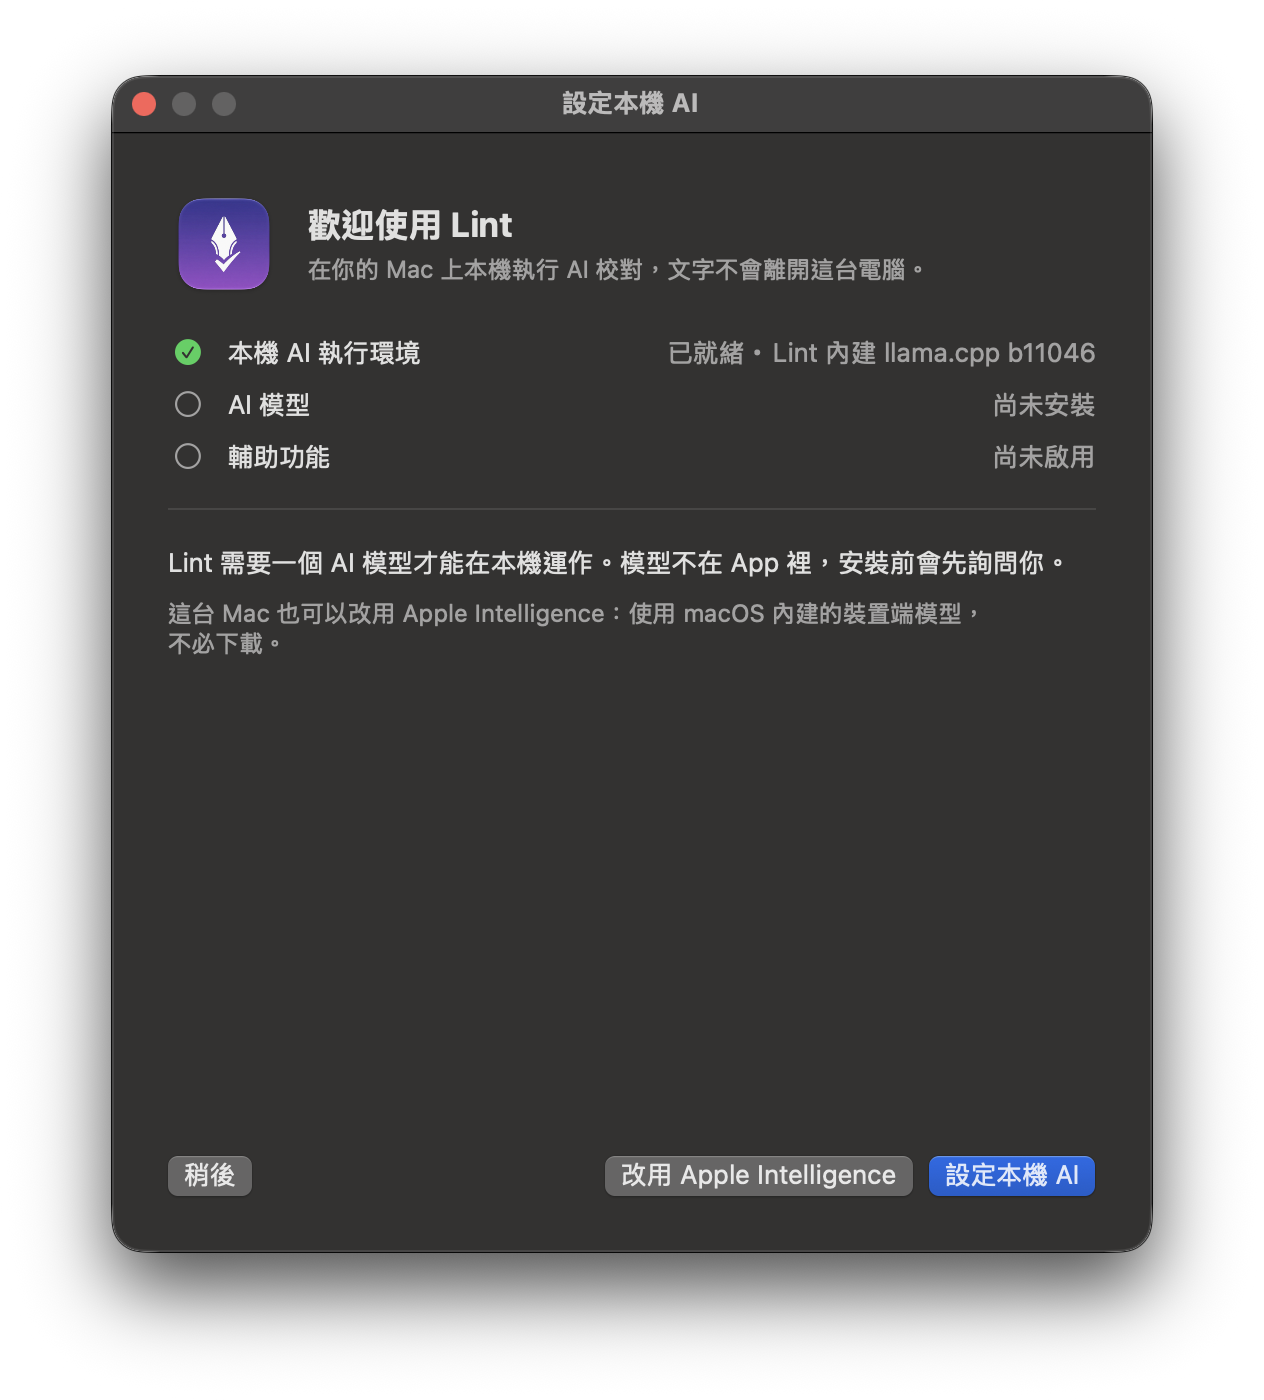
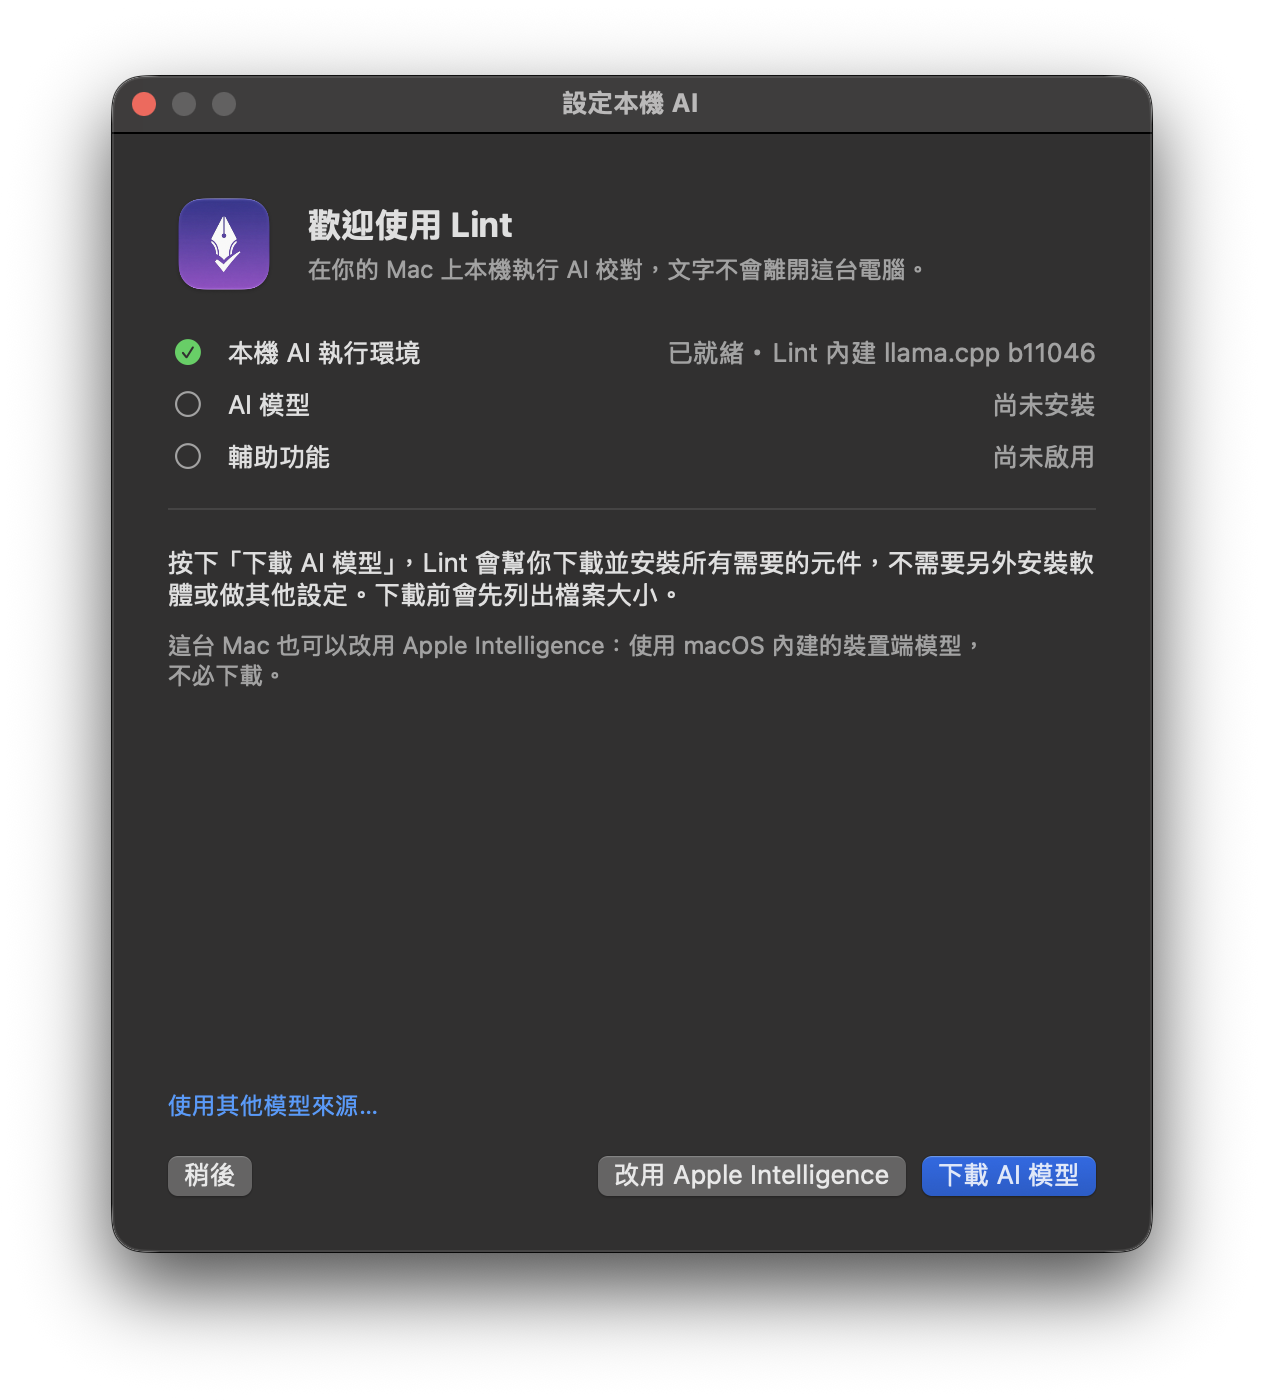
Bring the guide up to 0.14.0.
The download step names the 0.14.0 files. The DMG step says to drag Lint
where the new arrow points. The setup step names the "Download AI Model"
button and the "Use Another Model Source…" link, and says that Settings and
the hotkeys lead back to the window until Lint is ready, as the README now
does too. New screenshots of the DMG window, the setup window (en, zh) and
the v0.14.0 release.

Changed region(s): [[0.1234, 0.3686, 0.8639, 0.4914], [0.4628, 0.8293, 0.8639, 0.86], [0.1234, 0.7679, 0.2777, 0.7986]]

diff --git a/docs/guide.html b/docs/guide.html
@@ -133,7 +133,7 @@
         <span class="zh">從下載到第一個建議，一步一步來。每一步都會告訴你，繼續之前應該看到什麼。</span>
       </p>
       <ul class="chips">
-        <li>Lint 0.13.0</li>
+        <li>Lint 0.14.0</li>
         <li>macOS 14+</li>
         <li>Apple Silicon</li>
       </ul>
@@ -217,16 +217,16 @@
 
       <article class="step">
         <div class="step-head"><span class="step-num">1</span><h3><span class="en">Download the DMG</span><span class="zh">下載 DMG</span></h3></div>
-        <p class="en">Open <a href="https://github.com/davislinyd/Lint/releases/latest" target="_blank" rel="noopener noreferrer">the latest release on GitHub</a> and click <code>Lint-0.13.0-macOS-arm64.dmg</code> under <strong>Assets</strong>. A newer release has a newer number in the name.</p>
-        <p class="zh">打開 <a href="https://github.com/davislinyd/Lint/releases/latest" target="_blank" rel="noopener noreferrer">GitHub 上的最新版本</a>，在 <strong>Assets</strong> 下點 <code>Lint-0.13.0-macOS-arm64.dmg</code>。之後的版本檔名裡的版本號會不同。</p>
+        <p class="en">Open <a href="https://github.com/davislinyd/Lint/releases/latest" target="_blank" rel="noopener noreferrer">the latest release on GitHub</a> and click <code>Lint-0.14.0-macOS-arm64.dmg</code> under <strong>Assets</strong>. A newer release has a newer number in the name.</p>
+        <p class="zh">打開 <a href="https://github.com/davislinyd/Lint/releases/latest" target="_blank" rel="noopener noreferrer">GitHub 上的最新版本</a>，在 <strong>Assets</strong> 下點 <code>Lint-0.14.0-macOS-arm64.dmg</code>。之後的版本檔名裡的版本號會不同。</p>
         <p class="check en">The DMG is in your Downloads folder.</p>
         <p class="check zh">「下載項目」資料夾裡有這個 DMG。</p>
         <figure>
-          <a class="shot flat" href="assets/guide/shared/github-release.png" target="_blank" rel="noopener"><img src="assets/guide/shared/github-release.png" alt="The Lint v0.13.0 release on GitHub with the DMG under Assets" width="1036" height="426" loading="lazy"></a>
+          <a class="shot flat" href="assets/guide/shared/github-release.png" target="_blank" rel="noopener"><img src="assets/guide/shared/github-release.png" alt="The Lint v0.14.0 release on GitHub with the DMG under Assets" width="1036" height="426" loading="lazy"></a>
           <figcaption><span class="en">Click the <code>.dmg</code> file under Assets.</span><span class="zh">在 Assets 下點 <code>.dmg</code> 檔。</span></figcaption>
         </figure>
-        <div class="note en"><p><strong>Optional:</strong> to check the download, also get <code>Lint-0.13.0-macOS-arm64.dmg.sha256</code>, then run <code>shasum -a 256 -c Lint-0.13.0-macOS-arm64.dmg.sha256</code> in Terminal, in the folder that holds both files. It prints <code>OK</code>.</p></div>
-        <div class="note zh"><p><strong>選用：</strong>想確認下載無誤，可以一併下載 <code>Lint-0.13.0-macOS-arm64.dmg.sha256</code>，在放著這兩個檔案的資料夾打開「終端機」，執行 <code>shasum -a 256 -c Lint-0.13.0-macOS-arm64.dmg.sha256</code>，會印出 <code>OK</code>。</p></div>
+        <div class="note en"><p><strong>Optional:</strong> to check the download, also get <code>Lint-0.14.0-macOS-arm64.dmg.sha256</code>, then run <code>shasum -a 256 -c Lint-0.14.0-macOS-arm64.dmg.sha256</code> in Terminal, in the folder that holds both files. It prints <code>OK</code>.</p></div>
+        <div class="note zh"><p><strong>選用：</strong>想確認下載無誤，可以一併下載 <code>Lint-0.14.0-macOS-arm64.dmg.sha256</code>，在放著這兩個檔案的資料夾打開「終端機」，執行 <code>shasum -a 256 -c Lint-0.14.0-macOS-arm64.dmg.sha256</code>，會印出 <code>OK</code>。</p></div>
       </article>
     </section>
 
@@ -236,12 +236,12 @@
 
       <article class="step">
         <div class="step-head"><span class="step-num">2</span><h3><span class="en">Drag Lint into Applications</span><span class="zh">把 Lint 拖進「應用程式」</span></h3></div>
-        <p class="en">Double-click the DMG. In the window that opens, drag <strong>Lint</strong> onto the <strong>Applications</strong> folder. Then eject the <strong>Lint</strong> disk (⏏ next to it in the Finder sidebar).</p>
-        <p class="zh">雙擊 DMG。在開啟的視窗裡，把 <strong>Lint</strong> 拖到 <strong>Applications</strong> 資料夾上。接著退出 <strong>Lint</strong> 磁碟（Finder 側邊欄裡它旁邊的 ⏏）。</p>
+        <p class="en">Double-click the DMG. In the window that opens, drag <strong>Lint</strong> onto the <strong>Applications</strong> folder, where the arrow points. Then eject the <strong>Lint</strong> disk (⏏ next to it in the Finder sidebar).</p>
+        <p class="zh">雙擊 DMG。在開啟的視窗裡，照箭頭把 <strong>Lint</strong> 拖到 <strong>Applications</strong> 資料夾上。接著退出 <strong>Lint</strong> 磁碟（Finder 側邊欄裡它旁邊的 ⏏）。</p>
         <p class="check en">Lint is in your Applications folder.</p>
         <p class="check zh">「應用程式」資料夾裡有 Lint。</p>
         <figure>
-          <a class="shot" href="assets/guide/shared/dmg-window.png" target="_blank" rel="noopener"><img src="assets/guide/shared/dmg-window.png" alt="The Lint disk image window with the Applications folder and Lint.app" width="712" height="442" loading="lazy"></a>
+          <a class="shot" href="assets/guide/shared/dmg-window.png" target="_blank" rel="noopener"><img src="assets/guide/shared/dmg-window.png" alt="The Lint disk image window: an arrow labeled “drag to here” points from Lint.app to the Applications folder" width="686" height="474" loading="lazy"></a>
           <figcaption><span class="en">Drag Lint.app onto Applications.</span><span class="zh">把 Lint.app 拖到 Applications 上。</span></figcaption>
         </figure>
       </article>
@@ -270,14 +270,16 @@
         <p class="en">The <strong>Welcome to Lint</strong> window lists what Lint needs: the local AI runtime (already inside Lint), an AI model, and Accessibility. At the bottom, pick one:</p>
         <p class="zh"><strong>「歡迎使用 Lint」</strong>視窗會列出 Lint 需要的東西：本機 AI 執行環境（已內建）、AI 模型與輔助功能。在下方選一個：</p>
         <ul class="en">
-          <li><strong>Set Up Local AI</strong> (recommended): Lint runs Gemma 4 E4B on your Mac. It catches more mistakes. One download of about 5.15 GB.</li>
+          <li><strong>Download AI Model</strong> (recommended): Lint downloads and installs everything it needs and runs Gemma 4 E4B on your Mac. It catches more mistakes. One download of about 5.15 GB.</li>
           <li><strong>Use Apple Intelligence Instead</strong>: uses the on-device model built into macOS, with no download. It mostly fixes typos and basic grammar. This button appears only when your Mac can use Apple Intelligence.</li>
-          <li><strong>Later</strong>: closes the window. You can open it again from the menu bar with <strong>Set Up Local AI…</strong>.</li>
+          <li><strong>Later</strong>: closes the window. Until Lint is ready, opening Settings or pressing <span class="kbd-inline">⌥⌘K</span> or <span class="kbd-inline">⌥⌘L</span> brings this window back.</li>
+          <li><strong>Use Another Model Source…</strong>: opens Settings, for example to use an OpenAI-compatible endpoint instead.</li>
         </ul>
         <ul class="zh">
-          <li><strong>「設定本機 AI」</strong>（建議）：Lint 在你的 Mac 上執行 Gemma 4 E4B，能抓出較多錯誤。需要下載一次，約 5.15 GB。</li>
+          <li><strong>「下載 AI 模型」</strong>（建議）：Lint 會幫你下載並安裝所有需要的元件，在你的 Mac 上執行 Gemma 4 E4B，能抓出較多錯誤。需要下載一次，約 5.15 GB。</li>
           <li><strong>「改用 Apple Intelligence」</strong>：使用 macOS 內建的裝置端模型，不必下載，主要修正拼字與基本文法。只有這台 Mac 能使用 Apple Intelligence 時才會出現這個按鈕。</li>
-          <li><strong>「稍後」</strong>：先關閉視窗。之後可從選單列的<strong>「設定本機 AI…」</strong>再打開。</li>
+          <li><strong>「稍後」</strong>：先關閉視窗。在 Lint 能運作之前，打開設定或按 <span class="kbd-inline">⌥⌘K</span>、<span class="kbd-inline">⌥⌘L</span> 都會回到這個視窗。</li>
+          <li><strong>「使用其他模型來源…」</strong>：打開設定，例如改用 OpenAI 相容端點。</li>
         </ul>
         <figure>
           <a class="shot en" href="assets/guide/en/setup-welcome.png" target="_blank" rel="noopener"><img src="assets/guide/en/setup-welcome.png" alt="The Welcome to Lint window" width="632" height="700" loading="lazy"></a>
@@ -290,8 +292,8 @@
 
       <article class="step">
         <div class="step-head"><span class="step-num">5</span><h3><span class="en">Download the model</span><span class="zh">下載模型</span></h3></div>
-        <p class="en">After <strong>Set Up Local AI</strong>, Lint shows what it is about to download: the model, its size, the free space it needs, what your Mac has, and the license. Your text is never sent to a server; the network is only used for this download. Click <strong>Download and Install</strong>.</p>
-        <p class="zh">按下<strong>「設定本機 AI」</strong>後，Lint 會先列出即將下載的內容：模型、大小、需要的可用空間、這台 Mac 目前的空間與授權。你的文字不會送到任何伺服器，只有這次下載需要網路。按<strong>「下載並安裝」</strong>。</p>
+        <p class="en">After <strong>Download AI Model</strong>, Lint shows what it is about to download: the model, its size, the free space it needs, what your Mac has, and the license. Your text is never sent to a server; the network is only used for this download. Click <strong>Download and Install</strong>.</p>
+        <p class="zh">按下<strong>「下載 AI 模型」</strong>後，Lint 會先列出即將下載的內容：模型、大小、需要的可用空間、這台 Mac 目前的空間與授權。你的文字不會送到任何伺服器，只有這次下載需要網路。按<strong>「下載並安裝」</strong>。</p>
         <figure>
           <a class="shot en" href="assets/guide/en/setup-consent.png" target="_blank" rel="noopener"><img src="assets/guide/en/setup-consent.png" alt="Lint lists the model, its size, the free space needed and the license" width="632" height="700" loading="lazy"></a>
           <a class="shot zh" href="assets/guide/zh/setup-consent.png" target="_blank" rel="noopener"><img src="assets/guide/zh/setup-consent.png" alt="Lint 列出模型、大小、需要的空間與授權" width="632" height="700" loading="lazy"></a>
